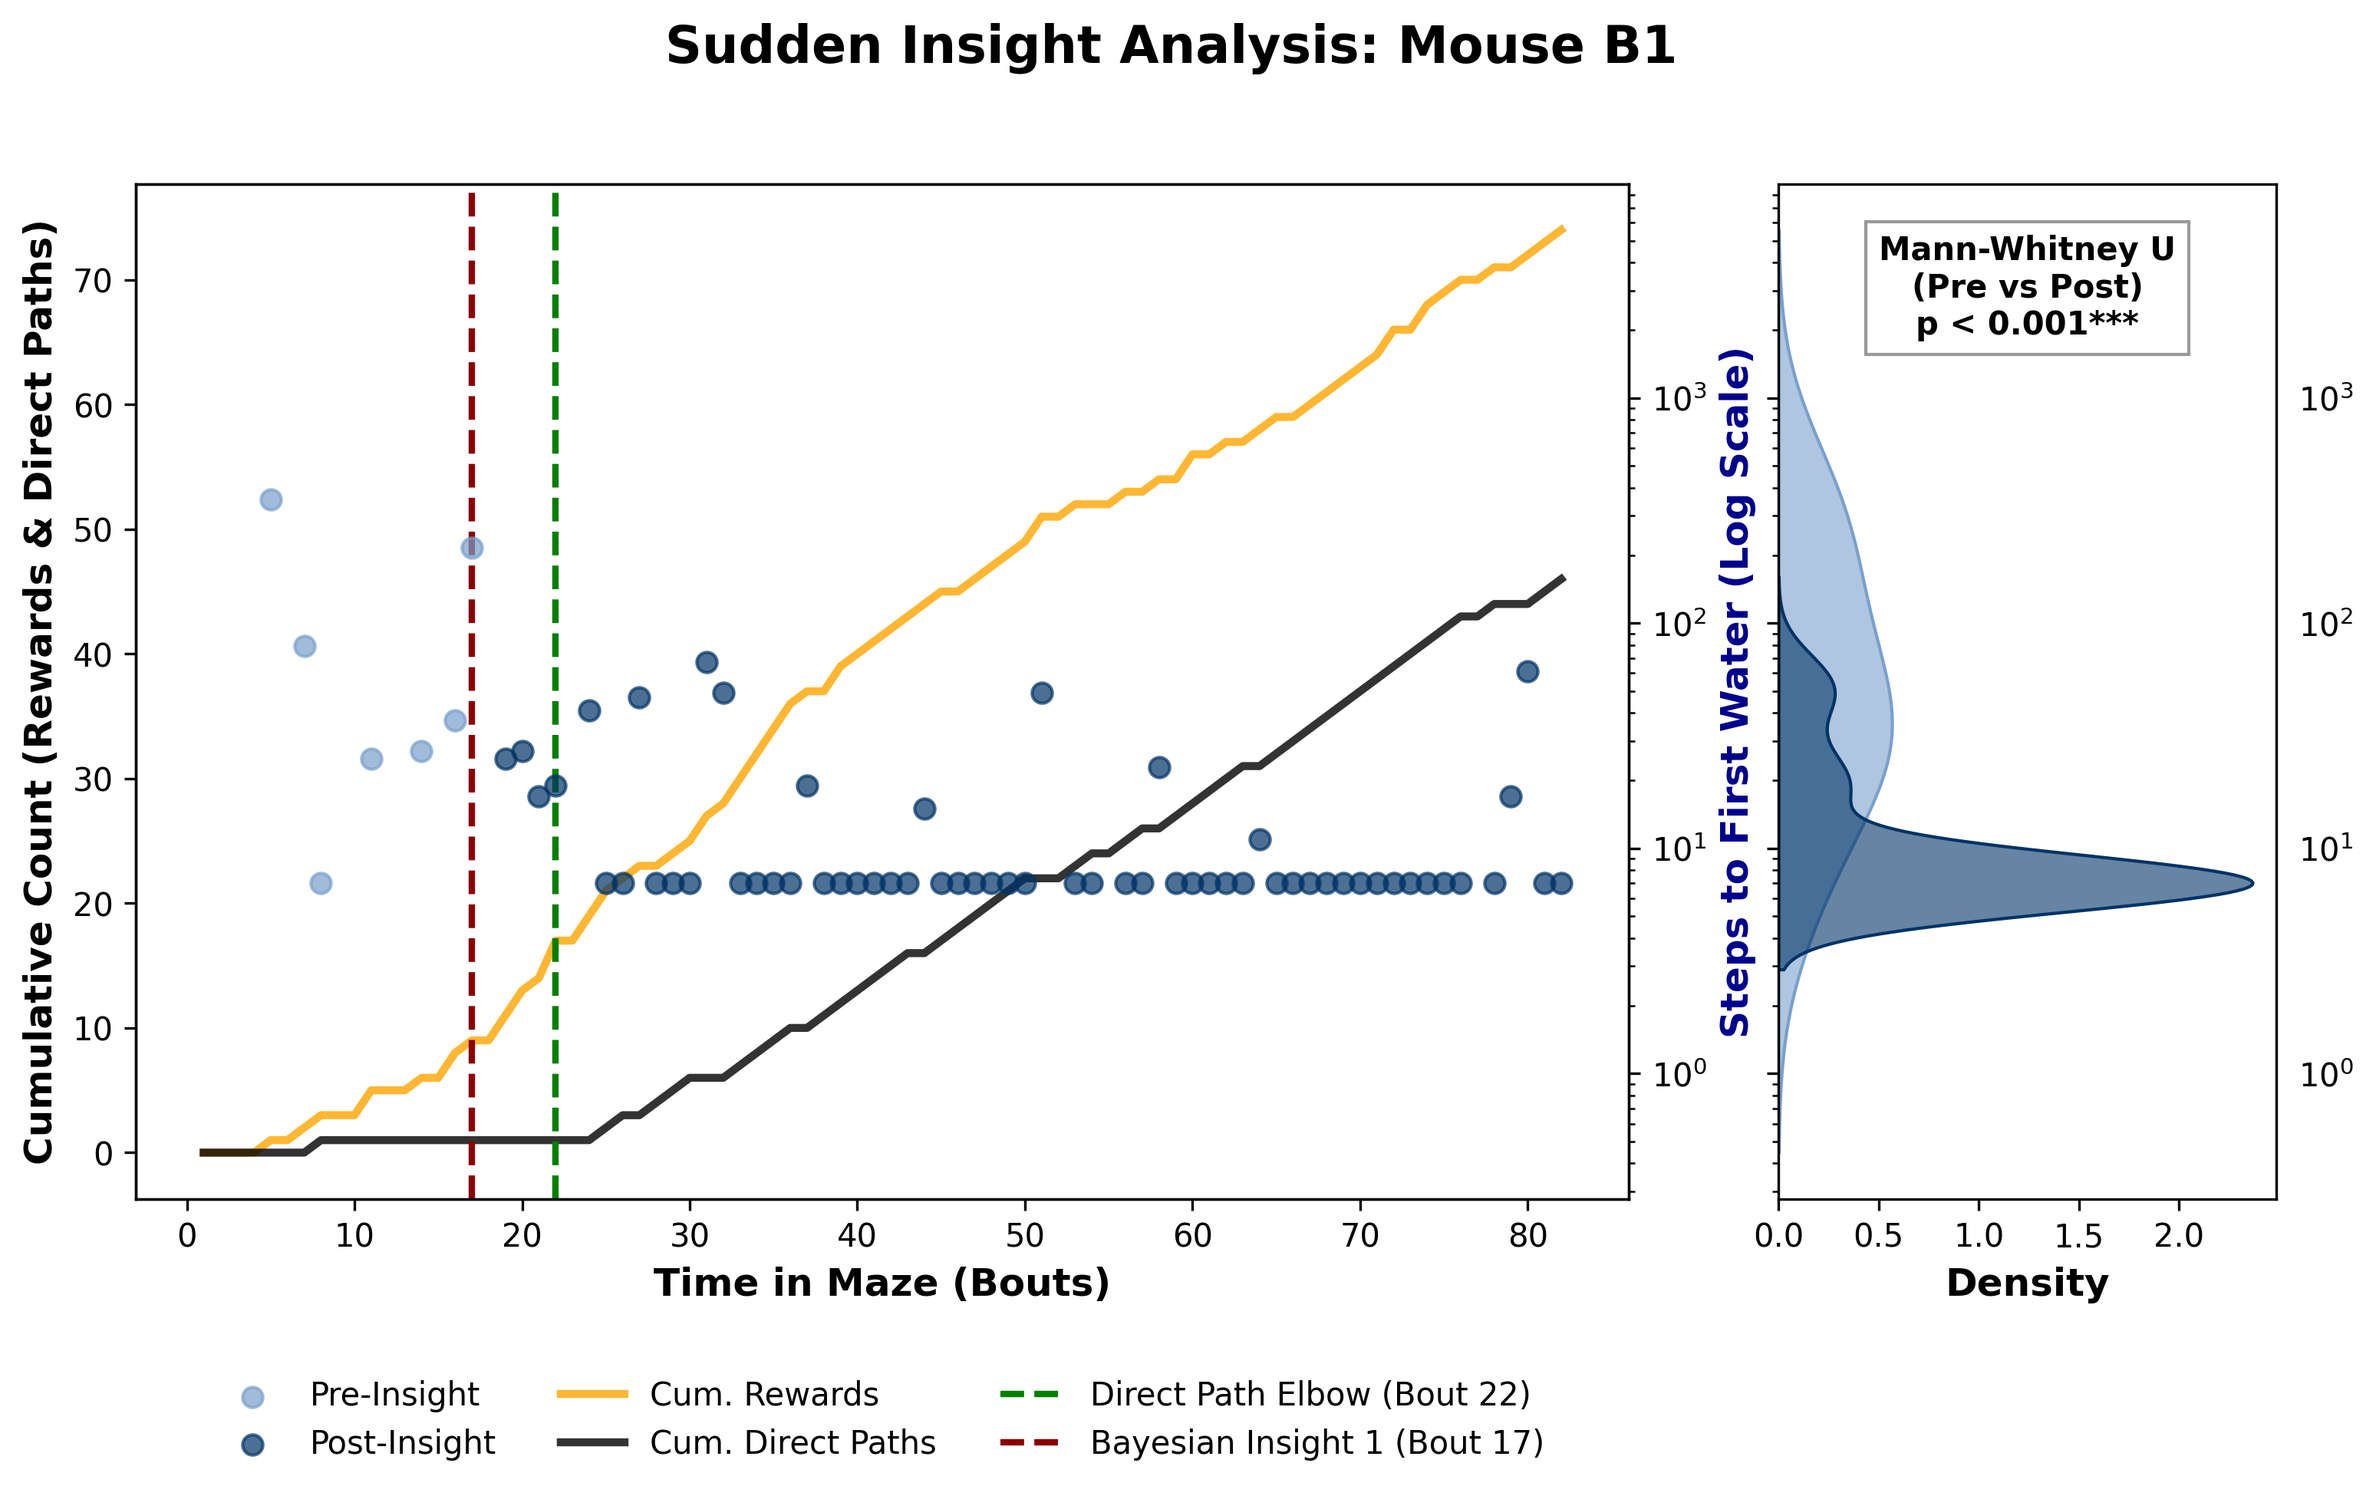
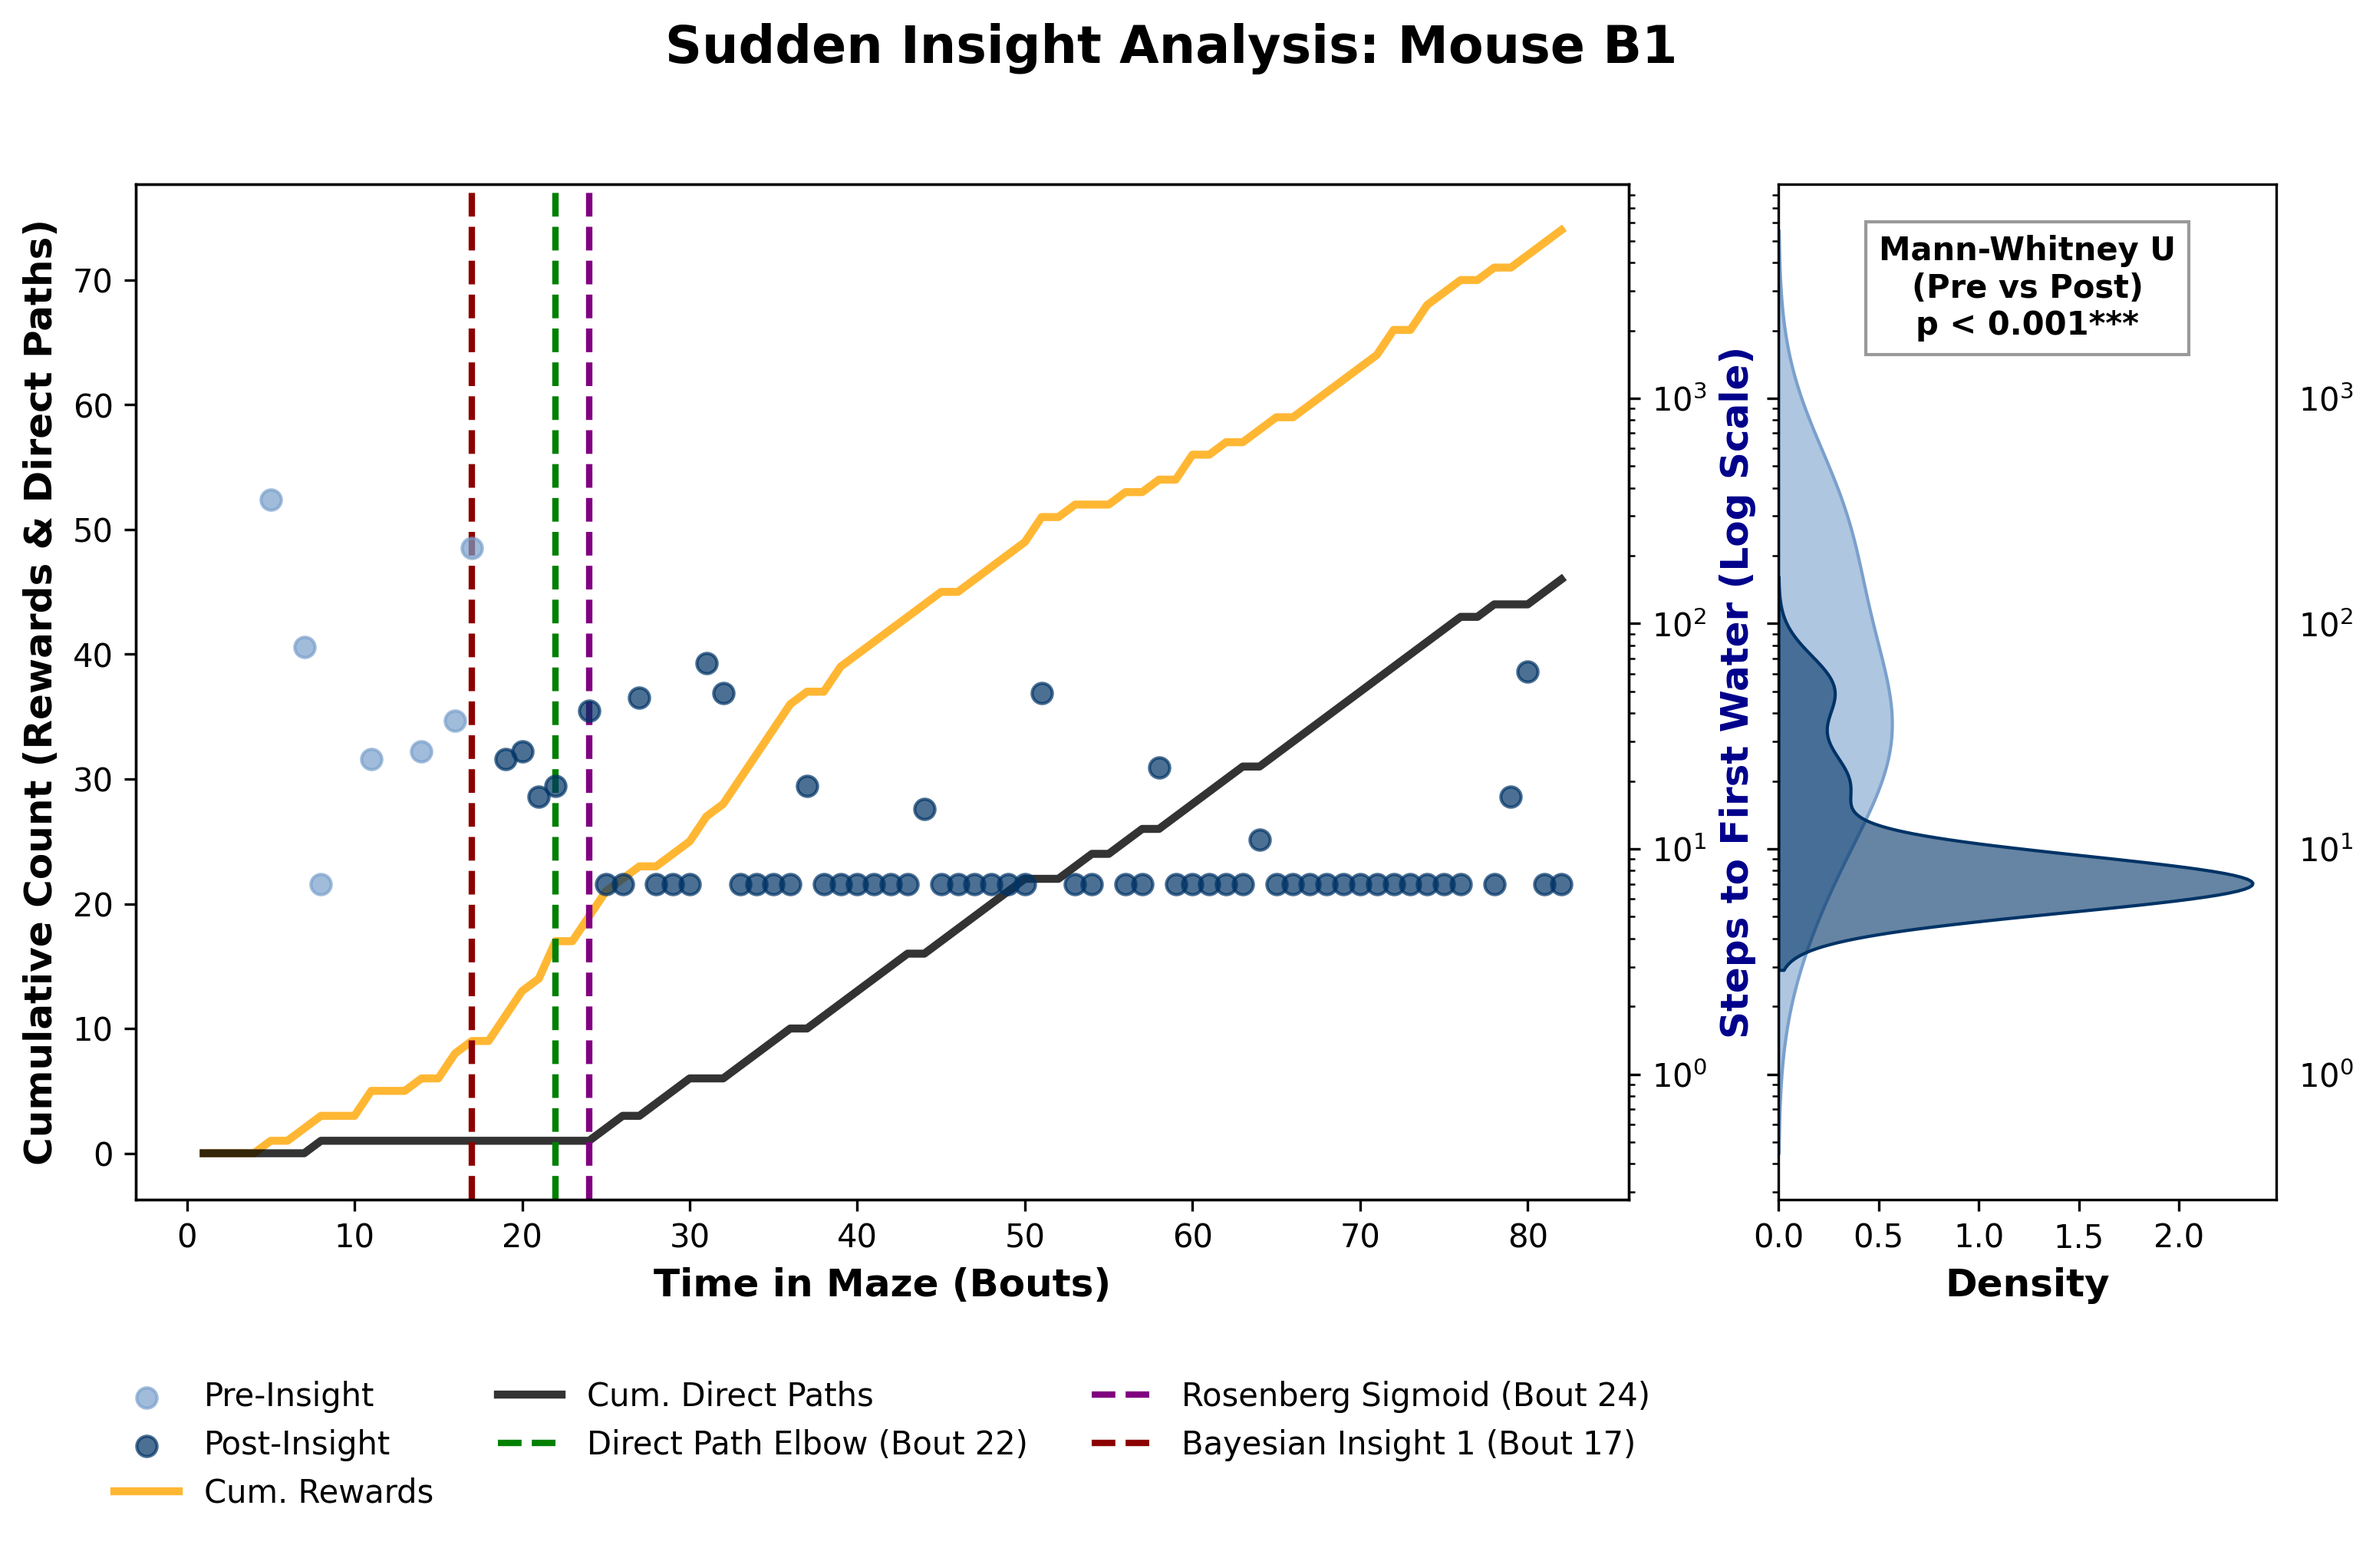
Sudden insight corrections

diff --git a/sections/sudden_insight.tex b/sections/sudden_insight.tex
@@ -3,19 +3,27 @@
 
 Traditional analyses of spatial learning often average performance metrics across a cohort of animals, typically yielding a smooth, exponential learning curve. However, as demonstrated by \cite{gallistel2004learning}, averaging over individual learning trajectories can mask the true, often discontinuous nature of cognitive acquisition. When analysing the cumulative direct paths to the water port on an individual basis, we observe that spatial learning in mice is highly non-linear.
 
-Specifically, $5$ out of the $10$ rewarded mice exhibited ``sudden insight''---a behavioural shift characterised by an abrupt, persistent increase in the gradient of cumulative direct paths to the target. To formalise the detection of this cognitive shift, we analysed the trajectory efficiency (measured in total steps per bout) from the home node to the water port. 
+Approximately half of rewarded mice exhibited ``sudden insight'', which matches observations made by Rosenberg et al \cite{rosenberg2021mice}. Sudden insight is a behavioural shift characterised by an abrupt, persistent increase in the gradient of cumulative direct paths to the target.
 
-We deployed a Bayesian Change Point Detection algorithm to identify the optimal point of behavioural separation, $\tau$. We operated under the assumption that the path lengths before and after the insight event are drawn from two distinct Poisson distributions, defined by rate parameters $\lambda_1$ and $\lambda_2$. The posterior probability of the change point, given the sequence of path lengths $X$, is defined as:
+To formalise the detection of this cognitive shift, we evaluated three change-point methodologies. First, following Rosenberg et al. \cite{rosenberg2021mice}, we modelled the rate of direct paths to the target as an inhomogeneous Poisson point process, fitting a 4-parameter sigmoid function [SIG] to identify the time of half-maximal rate change.
+
+Secondly, we used a Bayesian Change Point [BCP] Detection algorithm to identify an optimal discrete point of behavioural separation, $\tau$. We operated under the assumption that the path lengths before and after the insight event are drawn from two distinct Poisson distributions, defined by rate parameters $\lambda_1$ and $\lambda_2$. The posterior probability of the change point, given the sequence of path lengths $X$, is defined as:
 
 \begin{equation}
     P(\lambda_1, \lambda_2, \tau | X) \propto P(X | \lambda_1, \lambda_2, \tau) P(\lambda_1) P(\lambda_2) P(\tau)
 \end{equation}
 
-where the likelihood function $P(X | \lambda_1, \lambda_2, \tau)$ assumes a Poisson process, such that $x_t \sim \text{Poisson}(\lambda_1)$ for $t \leq \tau$ and $x_t \sim \text{Poisson}(\lambda_2)$ for $t > \tau$. 
+where the likelihood function $P(X | \lambda_1, \lambda_2, \tau)$ assumes $x_t \sim \text{Poisson}(\lambda_1)$ for $t \leq \tau$ and $x_t \sim \text{Poisson}(\lambda_2)$ for $t > \tau$. 
 
-As shown in Figure \ref{fig:sudden_insight}, the algorithm successfully isolates the pre- and post-insight distributions. Interestingly, we note that significant reward accumulation frequently occurs prior to the detected change point ($\tau$). This suggests a period of latent spatial exploration occurs before the mouse confidently optimises its exploitation route. 
+For the third approach, we implemented a third method: a threshold-based detection of the "elbow" in the cumulative direct path curve [CDPE]. By evaluating a rolling average of the direct path rate, this method reliably isolates the onset of sustained exploitation without being penalised by interspersed exploratory bouts.
 
-Furthermore, while the emergence of direct paths provides a clear marker for discontinuous learning, we concurrently observe a gradual decrease in the length of \textit{non-direct} paths leading to the target. This divergence indicates a crucial cognitive distinction between learning the absolute spatial location of the water port (``knowing where'') and optimising the navigational heuristic required to reach it efficiently from home (``knowing how''). This latent optimisation strongly aligns with the development of an internal Cognitive Map \cite{tolman1948cognitive}, which is constructed during unstructured exploration prior to the onset of sudden insight.
+While this BCP approach significantly improved detection compared to the sigmoid model, it proved highly sensitive to intermittent exploratory paths. Because mice frequently alternate between target exploitation and free exploration, these intermittent long paths mathematically disrupt the post-insight Poisson distribution, causing the Bayesian detector to artificially delay the change point.
+
+Reuslts are shown in Figure \ref{fig:sudden_insight}, where we plot a detailed analysis of the three detected change points along with supporting data, and include a summary across all mice which shows the time of sudden insight from the three methods against the occurance of rewards and direct paths to the water port. 
+
+We observe that none of the three methods is robust. That SIG struggles when insight occurs early, and that the BCP approach is most sensitive to the presence of intermittent exploratory bouts, the CDPE approach appears to be the most consistent. However, the correlation of the three detectors appears to be a reasonable indicator of the existence of sudden insight. Where learning is more gradual, the BCP tends to predict early and the SIG tends to predict late, which CDPE tends to be somewhere between. The divergence of these detectors, combined with a distance or rate threshold, threshold may provide a robust detector for sudden insight.
+
+While the emergence of direct paths with high frequency provides a clear marker for discontinuous learning, we also observe a gradual decrease in the length of \textit{non-direct} paths leading to the target. This divergence indicates a crucial cognitive distinction between learning the absolute spatial location of the water port (``knowing where'') and optimising the navigational heuristic required to reach it efficiently from home (``knowing how''). This latent optimisation strongly aligns with the development of an internal Cognitive Map \cite{tolman1948cognitive}, which is constructed during unstructured exploration prior to the onset of sudden insight.
 
 \begin{figure}[htbp]
     \centering
@@ -24,6 +32,6 @@ Furthermore, while the emergence of direct paths provides a clear marker for dis
     \includegraphics[width=0.48\textwidth]{figures/sudden_insight_B4.png} \\
     \includegraphics[width=0.48\textwidth]{figures/sudden_insight_C6.png}
     \includegraphics[width=0.48\textwidth]{figures/sudden_insight_C8.png}
-    \caption{\textbf{Discontinuous Learning and Change Point Detection.} (Top-Left) Average path lengths over time, demonstrating the smooth exponential curve artifact caused by cohort averaging. (Other Panels) Individual mouse analyses demonstrating sudden insight. The Bayesian Change Point ($\tau$) is detected by comparing the Poisson distributions of path lengths pre-insight (light blue) and post-insight (dark blue), aligning with the abrupt shift in cumulative direct paths.}
+    \caption{\textbf{Discontinuous Learning and Change Point Detection.} (Top-Left) Summary across mice of sudden insight detection methods (SIG, BCP, CDPE), with occurence of rewards and direct paths for context. (Other Panels) Individual mouse analyses demonstrating sudden insight detection vertically. The Bayesian Change Point ($\tau$) is detected by comparing the Poisson distributions of path lengths pre-insight (light blue) and post-insight (dark blue), and cumulative direct path rate (black), and cumulative rewards (orange).}
     \label{fig:sudden_insight}
 \end{figure}
